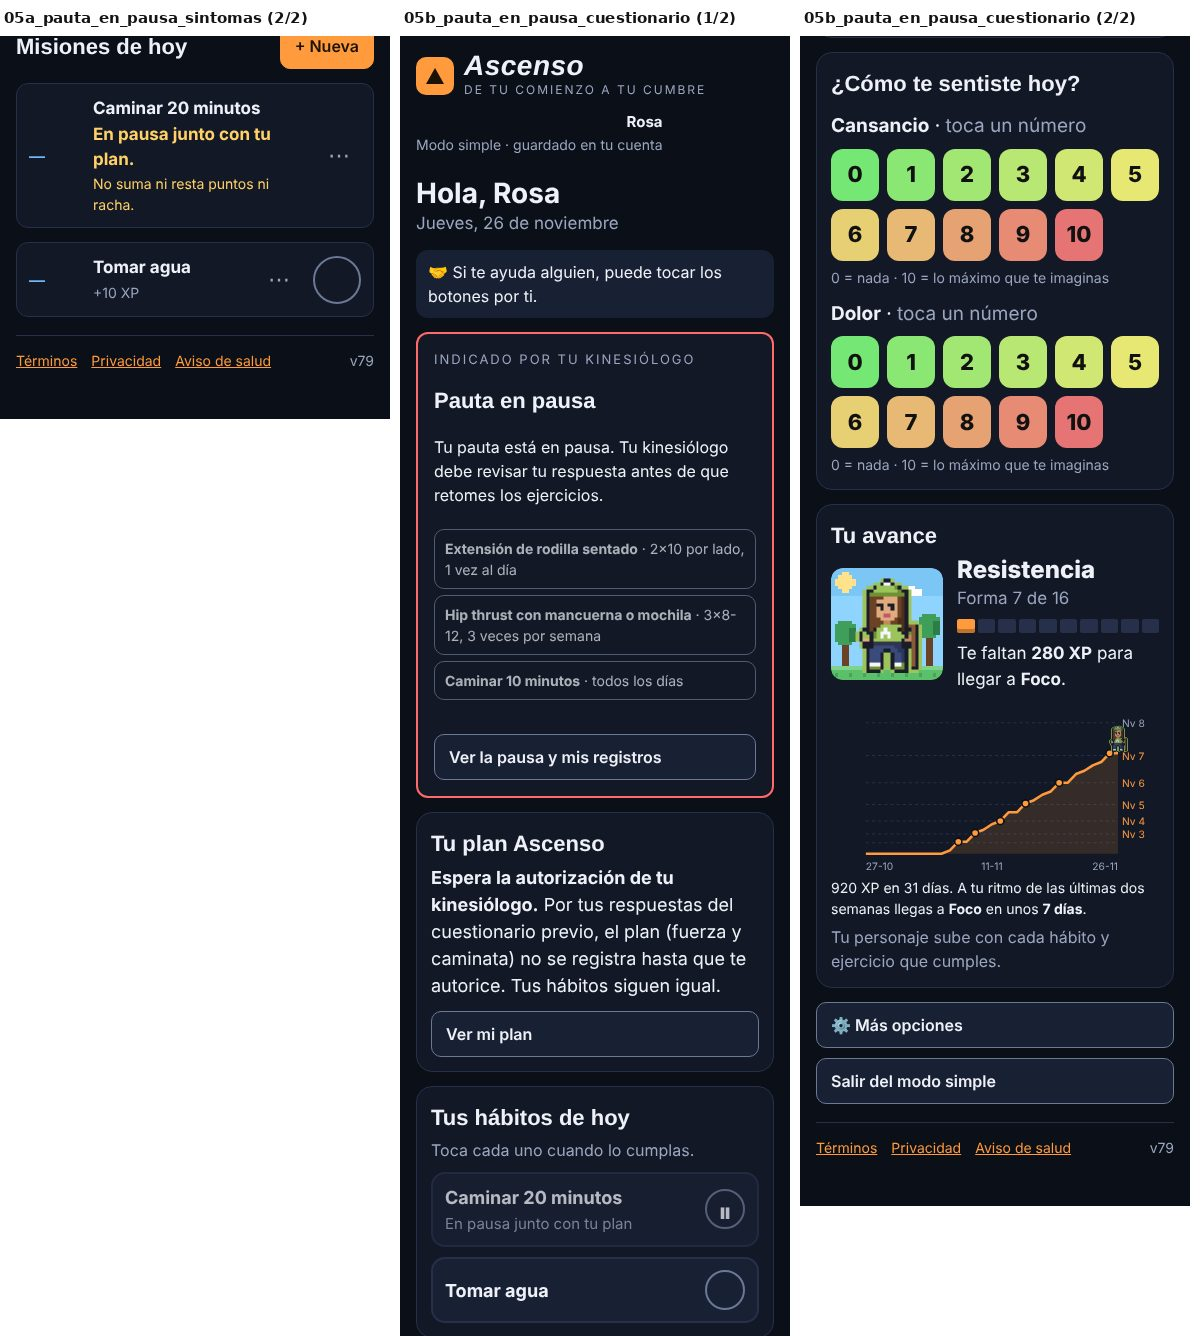
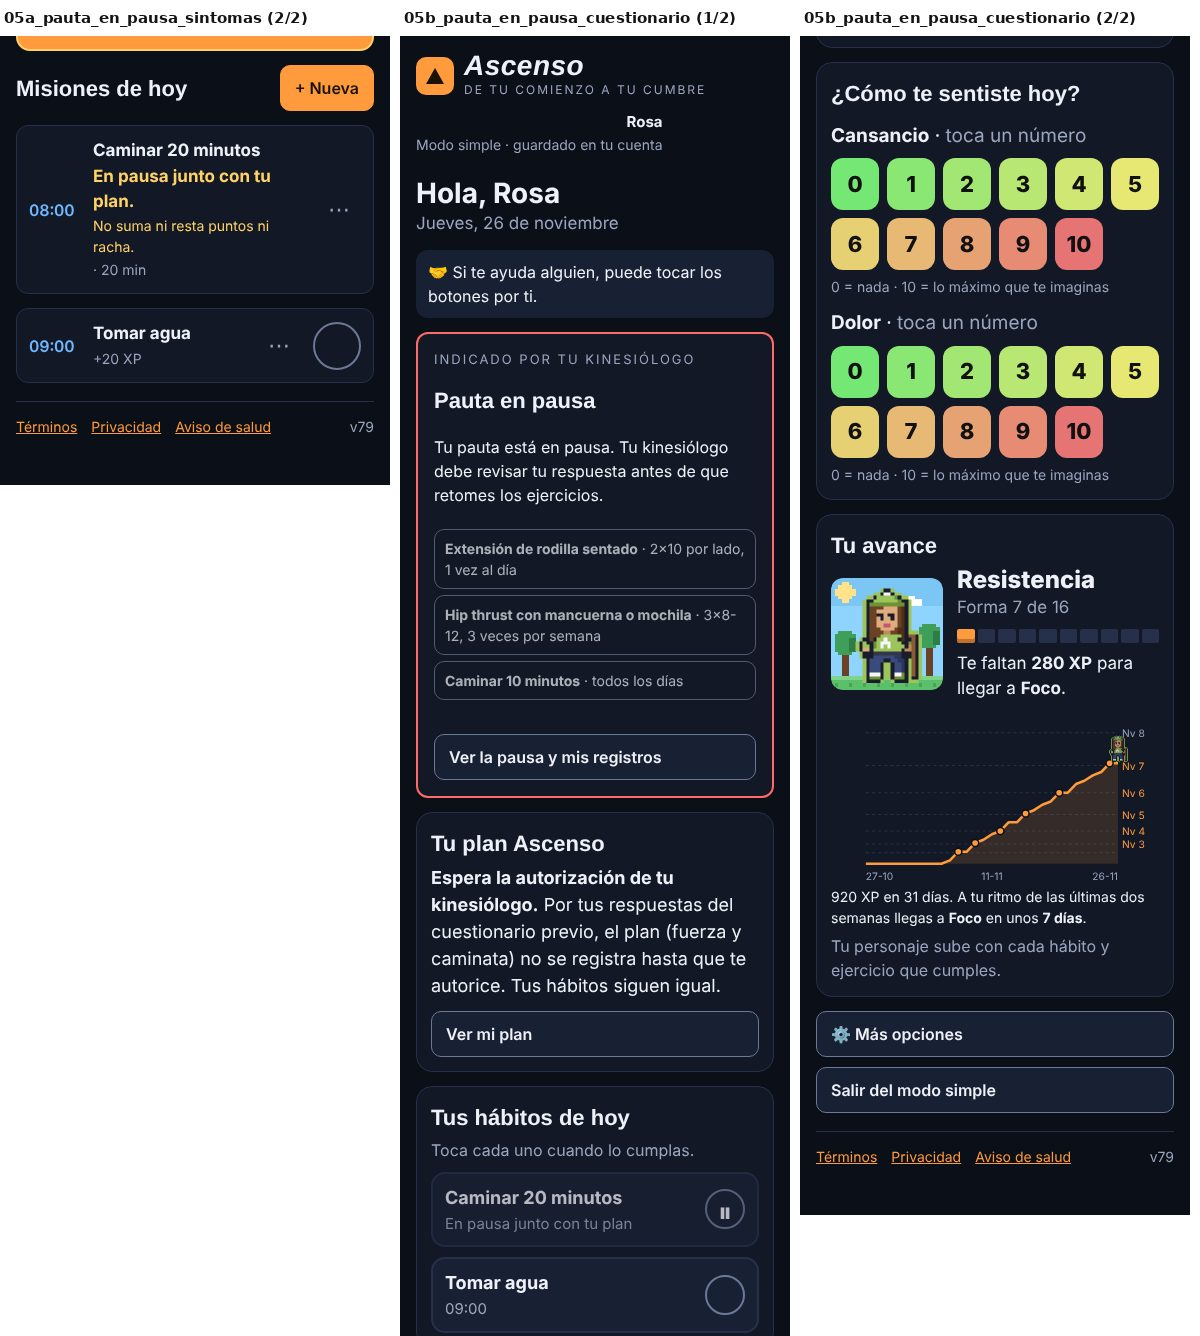
Copia de prueba v79: misiones en pausa y capturas (la app de los pacientes no cambia)
Claude-Session: https://claude.ai/code/session_01J9tU8kEPtqaroEiwXZirqq

diff --git a/beta/index.html b/beta/index.html
@@ -2,7 +2,7 @@
 <html lang="es">
 <head><base href="/ascenso/"><meta name="robots" content="noindex,nofollow"><script>(function(){var P="beta::",S=Storage.prototype,g=S.getItem,t=S.setItem,r=S.removeItem;S.getItem=function(k){return g.call(this,P+k)};S.setItem=function(k,v){return t.call(this,P+k,v)};S.removeItem=function(k){return r.call(this,P+k)};window.__BETA=true;window.__BETA_OK=[]})();</script>
 <meta charset="utf-8">
-<meta http-equiv="Content-Security-Policy" content="script-src 'self' 'sha256-s/2Ct3tFYhvXDkHKQXgCxKZn0b7j8MYsCZJcokQtB40=' 'sha256-yr4Az85wallbLo+BJuo4EHhn4UUh6kw2YvCLg58huko=' 'sha256-AFdyW6QBsN7g3o2Wol3DzaFtzZPYZuMmQ8KwB76Xs6I=' 'sha256-5m2u4pl+QQ/JE5w8ukPTJ/in6Wfsb5JmjLwGXVXoulQ=' 'sha256-x6Jjqo12cp5KPEwhwsD15s6v7TK37973w38eJjFjN10='; object-src 'none'; base-uri 'self'">
+<meta http-equiv="Content-Security-Policy" content="script-src 'self' 'sha256-s/2Ct3tFYhvXDkHKQXgCxKZn0b7j8MYsCZJcokQtB40=' 'sha256-PB0sfcQtKp8yHvTqB113r4+jDCwRiSKJRHyeBi9QgSM=' 'sha256-AFdyW6QBsN7g3o2Wol3DzaFtzZPYZuMmQ8KwB76Xs6I=' 'sha256-5m2u4pl+QQ/JE5w8ukPTJ/in6Wfsb5JmjLwGXVXoulQ=' 'sha256-x6Jjqo12cp5KPEwhwsD15s6v7TK37973w38eJjFjN10='; object-src 'none'; base-uri 'self'">
 <meta name="viewport" content="width=device-width,initial-scale=1,viewport-fit=cover">
 <meta name="theme-color" content="#0b0f17">
 
@@ -855,8 +855,8 @@ function vDia(){if(S.ui&&S.ui.simple&&!view.sOut)return vSimple();const d=today(
  ${ms.length?ms.map(m=>missionRow(m,d,true)).join(""):`<div class="card"><h3>Tu primera misión empieza aquí</h3><p class="mute">Crea una o elige entre 24 hábitos sugeridos.</p><div class="row"><button class="btn" data-act="tab" data-k="misiones">Ver sugeridos</button></div></div>`}`}
 
 function missionRow(m,d,act){const dn=(S.done[d]||{})[m.id],op=act&&view.mo===m.id,mp=act&&!dn&&mPaused(m,d),wn=act?walkNote(m):"";
- const links=`${m.dur&&act?`<button class="link" data-act="startTimer" data-id="${m.id}">Temporizador</button>`:""}${m.time?`<a class="link" style="color:var(--accent)" target="_blank" rel="noopener" href="${calUrl(m)}">Google Calendar</a>`:""}<button class="link" data-act="editMission" data-id="${m.id}">Editar</button>`;
- return`<div class="mission ${dn?"done":""}${mp?" paused":""}"${mp?' aria-disabled="true"':""}><span class="t">${esc(m.time||"—")}</span><div class="n"><b>${esc(m.name)}</b>${mp?`<span class="small" style="display:block;color:var(--warn,#b45309)"><b>En pausa junto con tu plan.</b> No suma ni resta puntos ni racha.</span>`:wn?`<span class="small" style="display:block">${wn}</span>`:""}<span class="mute small">${mp?"":`+${+m.xp||0} XP`}${m.dur?" · "+m.dur+" min":""}${act?"":` · ${esc(m.cat)} · ${m.days.length===7?"todos los días":m.days.map(x=>DOW[x]).join(", ")}`}</span>${!act||op?`<div class="row small" style="margin-top:4px">${links}</div>`:m.dur?`<div class="row small" style="margin-top:4px"><button class="link" data-act="startTimer" data-id="${m.id}">Temporizador</button></div>`:""}</div>${act?`<button class="more" data-act="mMore" data-id="${m.id}" aria-expanded="${op}" aria-label="Opciones de ${esc(m.name)}">⋯</button>${mp?"":`<button class="check" aria-label="${dn?"Desmarcar":"Marcar como cumplida"}" data-act="toggle" data-id="${m.id}">${dn?"✓":""}</button>`}`:""}</div>`}
+ const links=`${m.dur&&act&&!mp?`<button class="link" data-act="startTimer" data-id="${m.id}">Temporizador</button>`:""}${m.time?`<a class="link" style="color:var(--accent)" target="_blank" rel="noopener" href="${calUrl(m)}">Google Calendar</a>`:""}<button class="link" data-act="editMission" data-id="${m.id}">Editar</button>`;
+ return`<div class="mission ${dn?"done":""}${mp?" paused":""}"${mp?' aria-disabled="true"':""}><span class="t">${esc(m.time||"—")}</span><div class="n"><b>${esc(m.name)}</b>${mp?`<span class="small" style="display:block;color:var(--warn,#b45309)"><b>En pausa junto con tu plan.</b> No suma ni resta puntos ni racha.</span>`:wn?`<span class="small" style="display:block">${wn}</span>`:""}<span class="mute small">${mp?"":`+${+m.xp||0} XP`}${m.dur?" · "+m.dur+" min":""}${act?"":` · ${esc(m.cat)} · ${m.days.length===7?"todos los días":m.days.map(x=>DOW[x]).join(", ")}`}</span>${!act||op?`<div class="row small" style="margin-top:4px">${links}</div>`:m.dur&&!mp?`<div class="row small" style="margin-top:4px"><button class="link" data-act="startTimer" data-id="${m.id}">Temporizador</button></div>`:""}</div>${act?`<button class="more" data-act="mMore" data-id="${m.id}" aria-expanded="${op}" aria-label="Opciones de ${esc(m.name)}">⋯</button>${mp?"":`<button class="check" aria-label="${dn?"Desmarcar":"Marcar como cumplida"}" data-act="toggle" data-id="${m.id}">${dn?"✓":""}</button>`}`:""}</div>`}
 
 function calUrl(m){let d=today();for(let i=0;i<7&&!m.days.includes(pdate(d).getDay());i++)d=addDays(d,1);const[h,mi]=m.time.split(":").map(Number),s=d.replace(/-/g,"")+"T"+pad(h)+pad(mi)+"00",e=new Date(pdate(d).getTime()+(h*60+mi+15)*6e4),es=dstr(e).replace(/-/g,"")+"T"+pad(e.getHours())+pad(e.getMinutes())+"00";
  let tz="America/Santiago";try{tz=Intl.DateTimeFormat().resolvedOptions().timeZone||tz}catch(e){}
